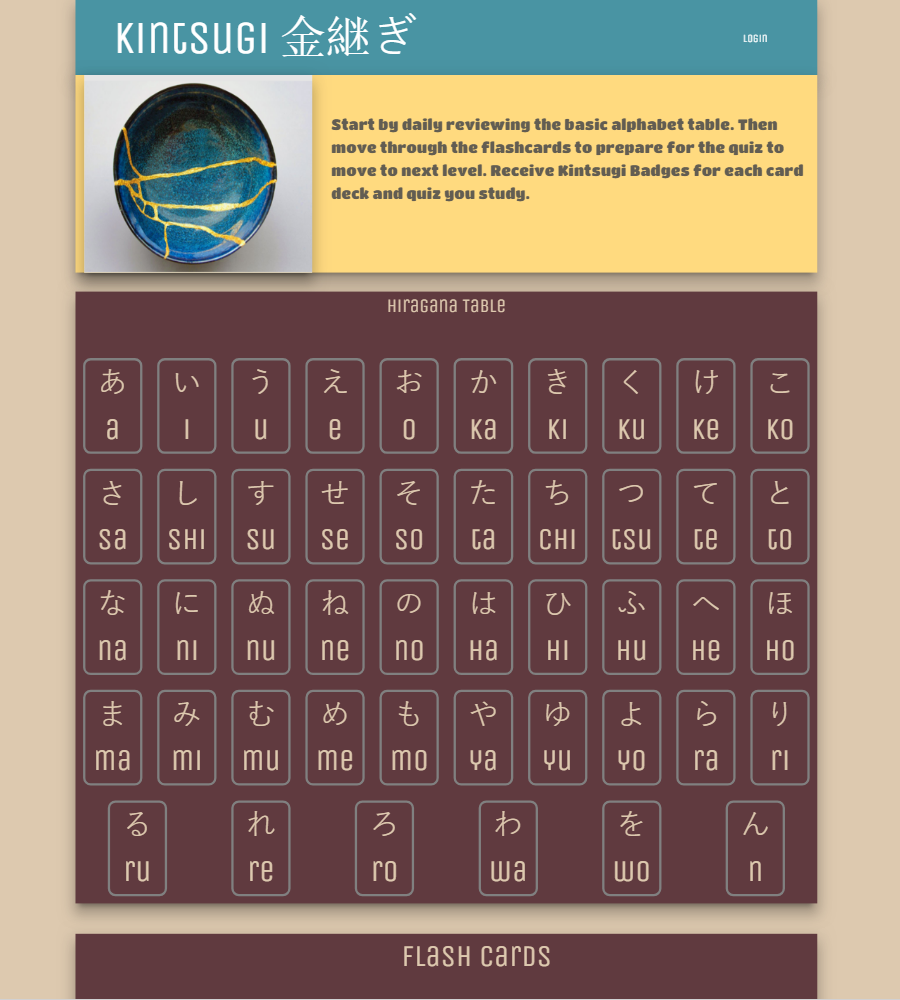
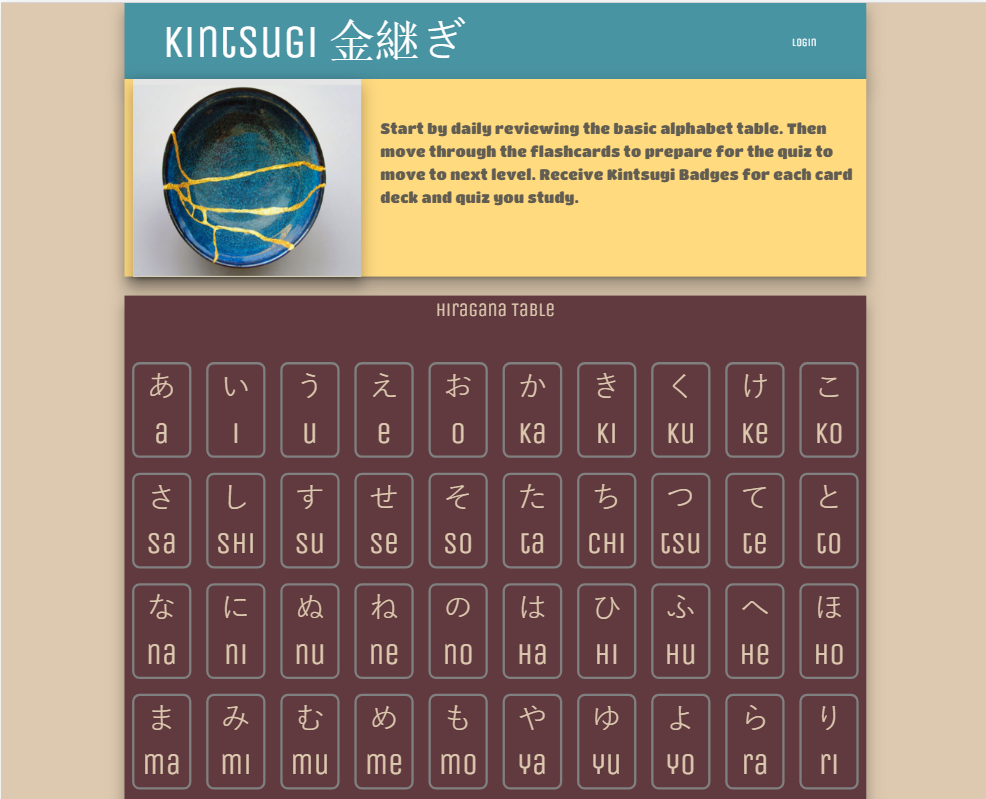
final touches

diff --git a/portfolio.html b/portfolio.html
@@ -55,15 +55,15 @@
 
 			
 			<!-- END section -->
-			<section class="probootstrap-section-half probootstrap-reverse">
+			<section class="probootstrap-section-half">
 				<div class="probootstrap-image probootstrap-animate" data-animate-effect="fadeIn" style="background-image: url(img/Kintsugi.PNG)"></div>
 				<div class="probootstrap-text">
 					<div class="probootstrap-inner probootstrap-animate" style="font-size:10px;">
-						<h1 class="heading">Kintsugi - A Japanese language learnigng app</h1>
+						<br>
+						<br>
+						<h1 class="heading">Kintsugi</h1>
 						<p>
 							<li>Group project</li>
-							<br>
-
 							An application for those who want to learn or master the art of the Japanese language.
 						</p>
 
